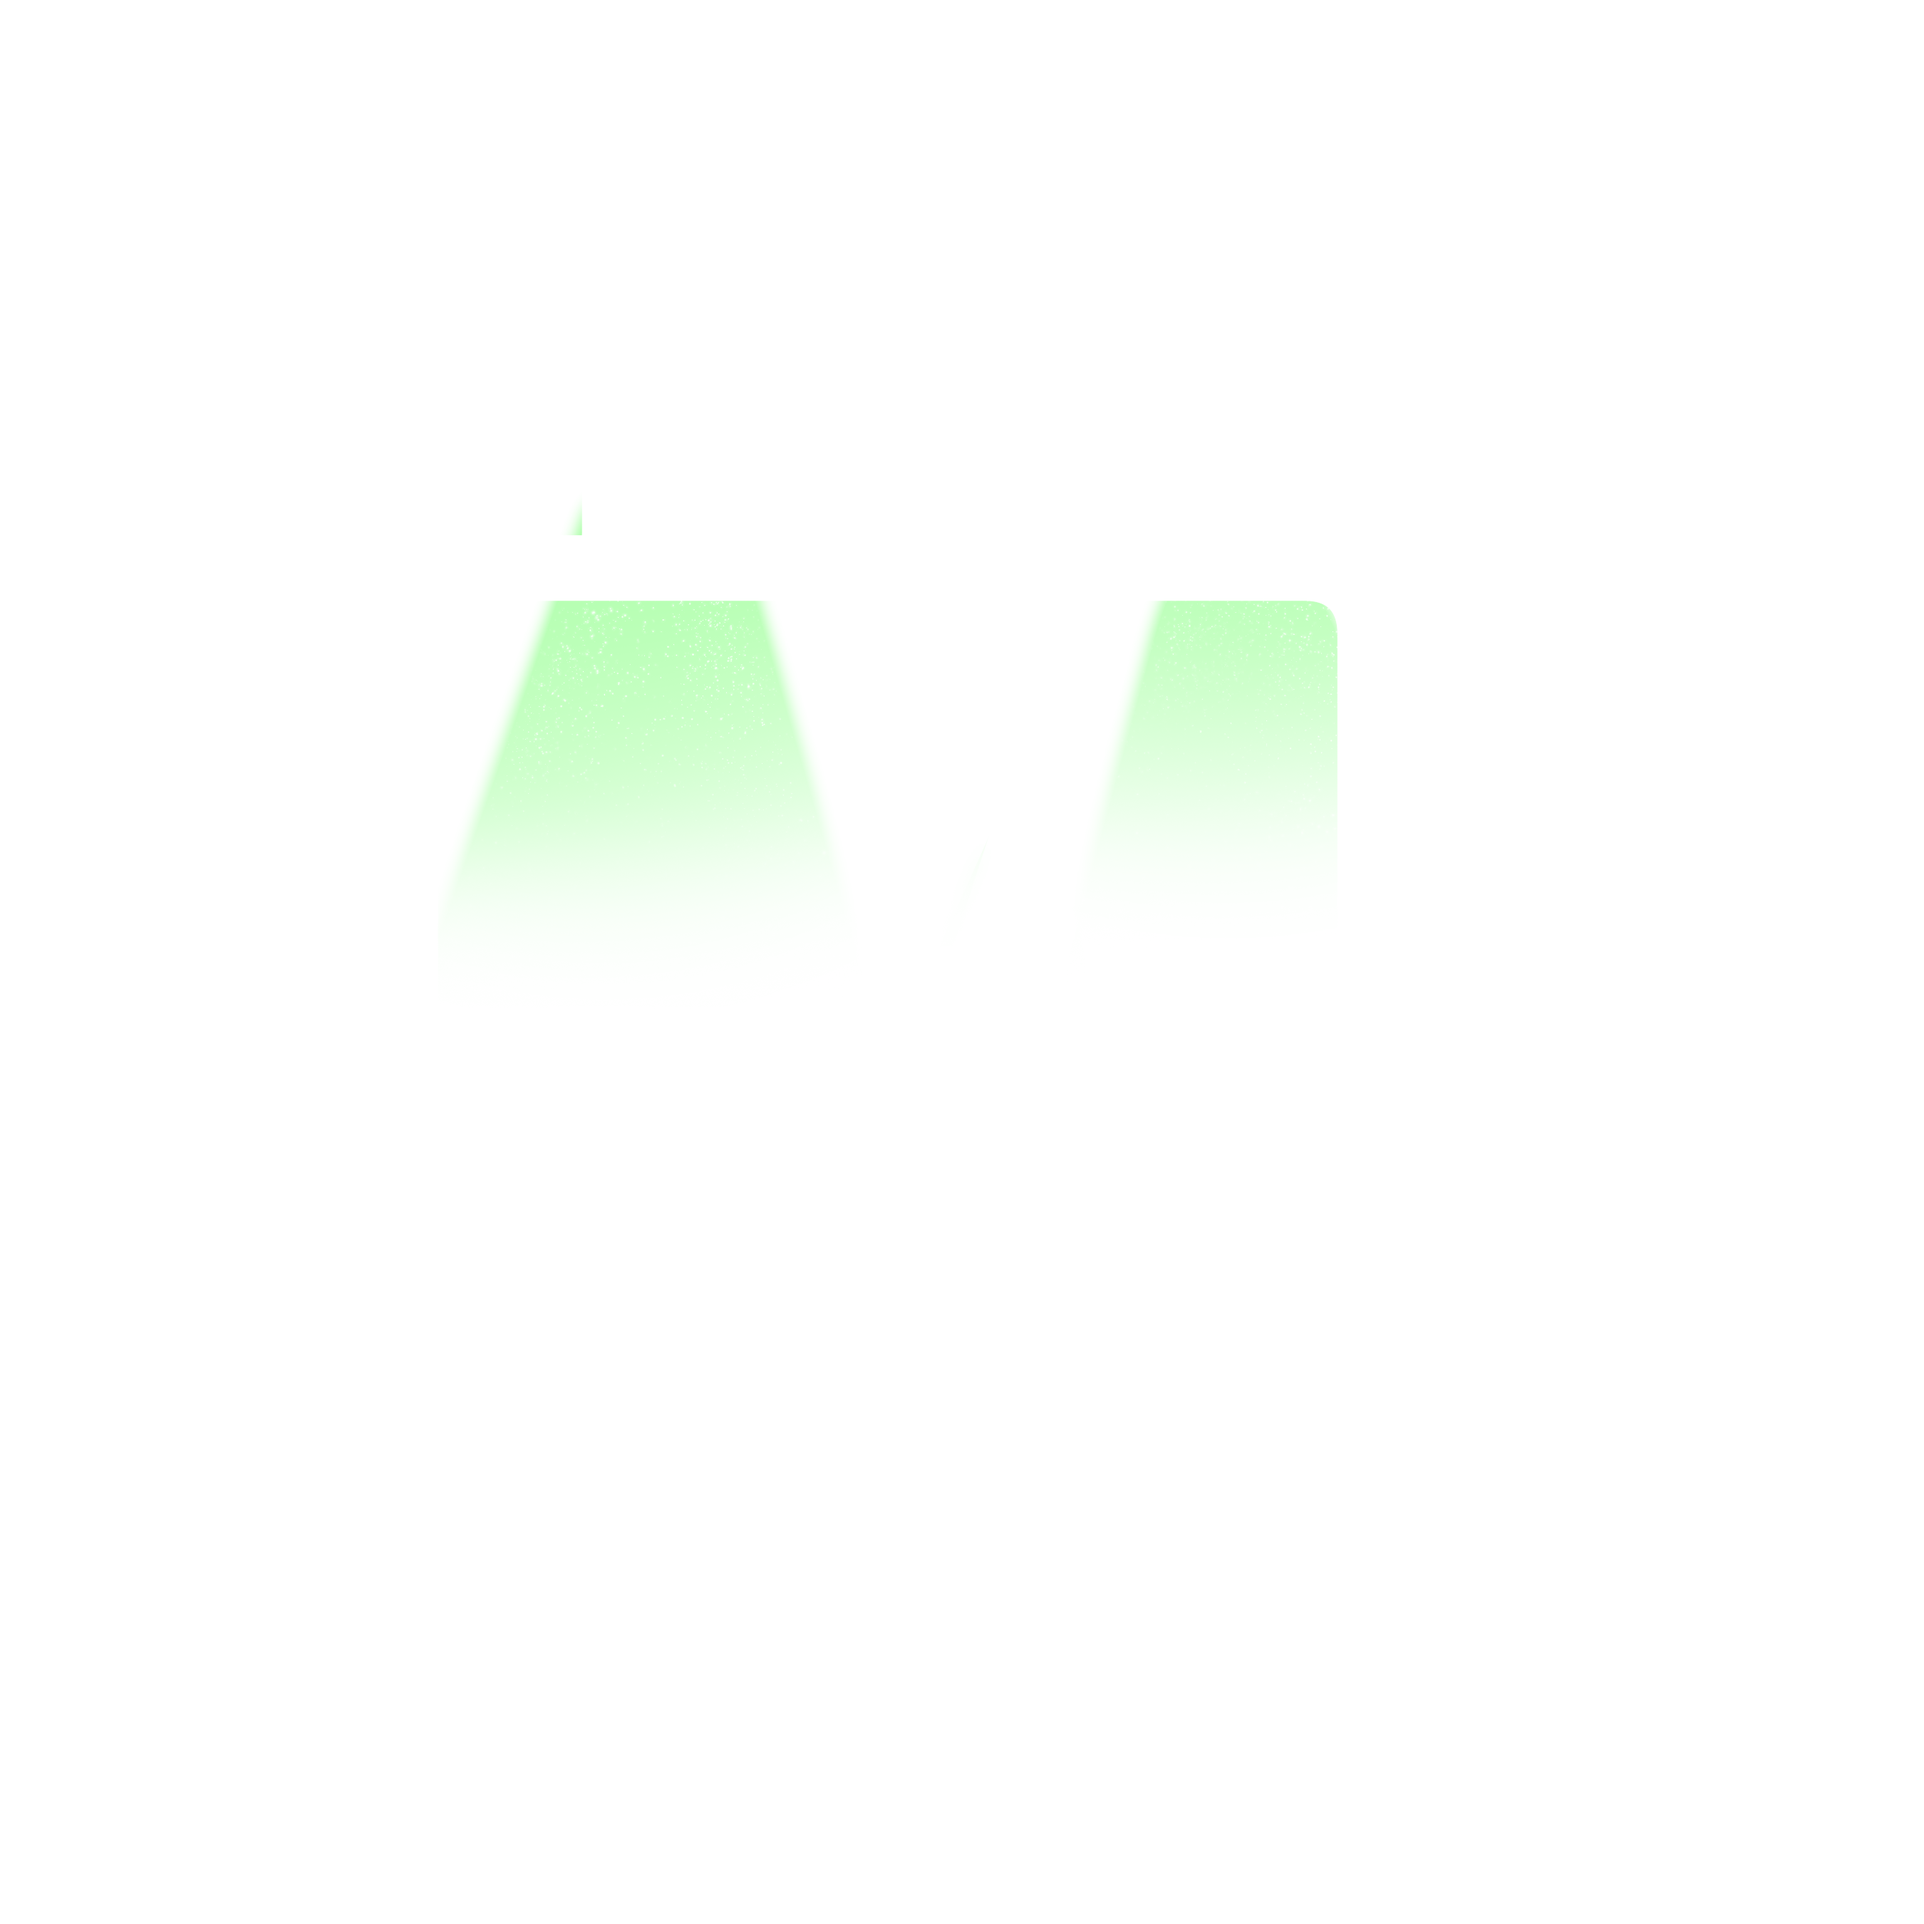
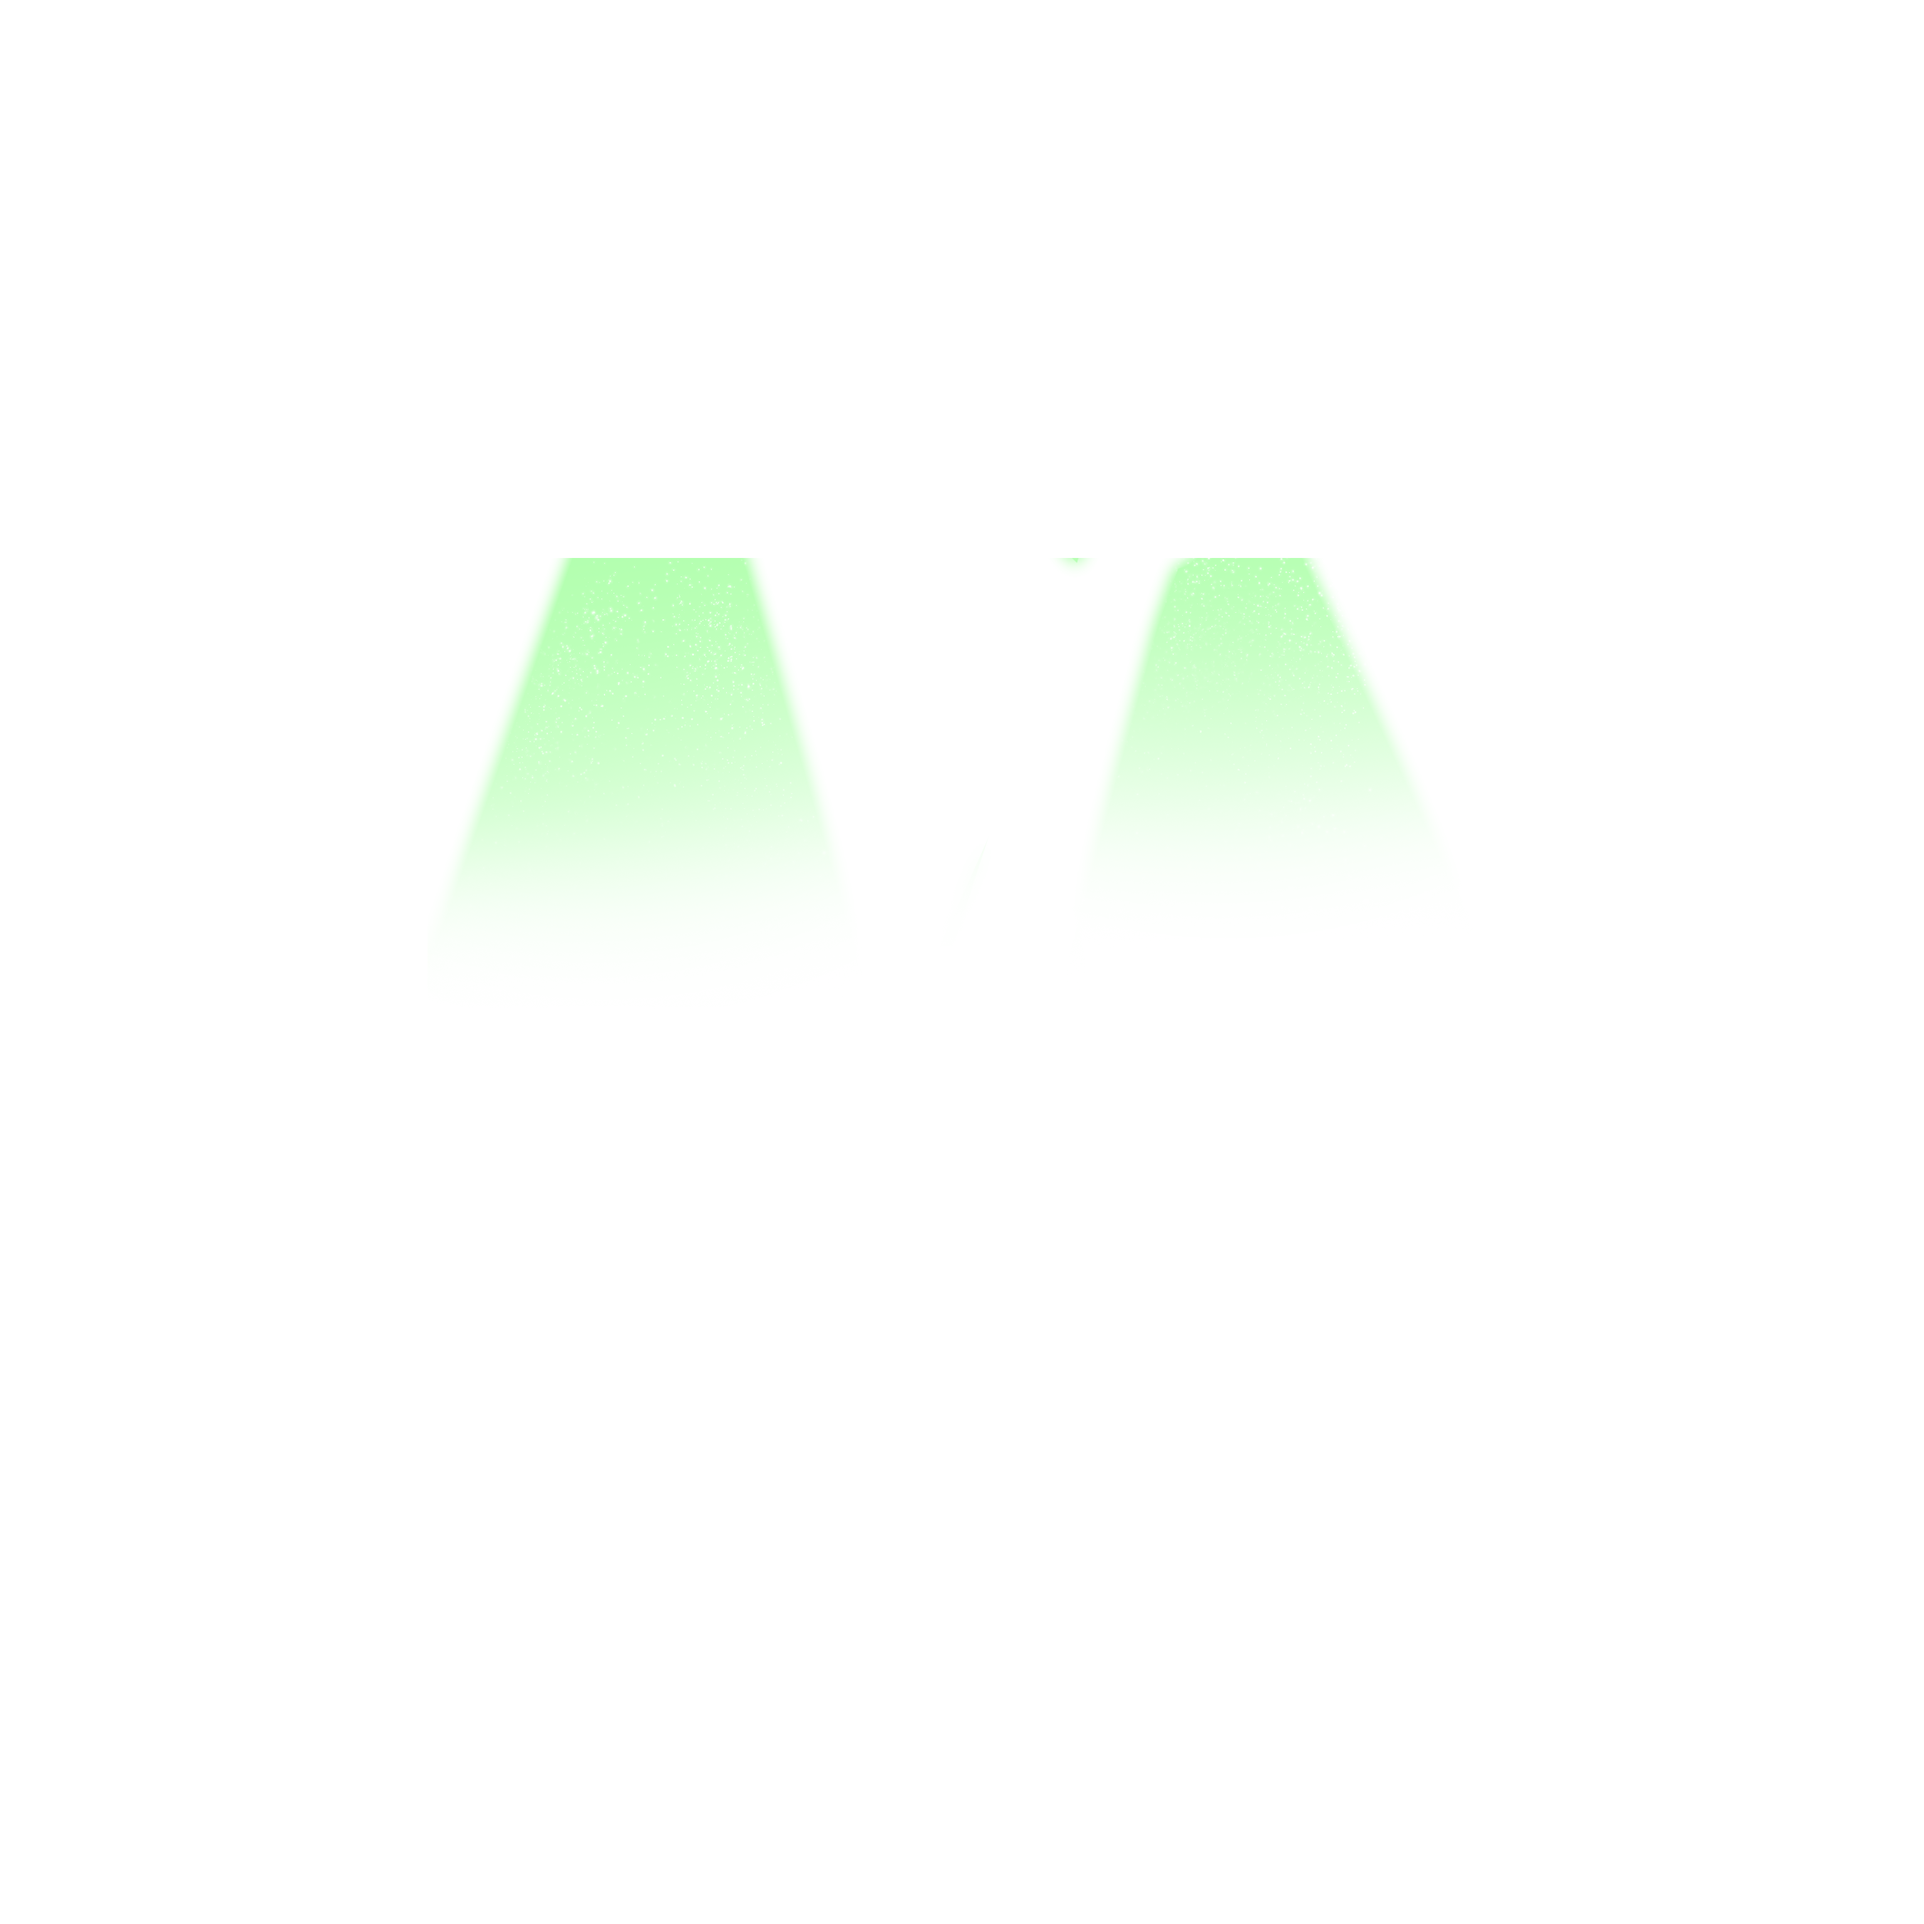
이미지 교체중

Changed region(s): [[0.6844, 0.3111, 0.7467, 0.4044], [0.28, 0.28, 0.4044, 0.3111], [0.5911, 0.28, 0.6844, 0.3111]]

diff --git a/kidult/src/App.css b/kidult/src/App.css
@@ -465,9 +465,7 @@
 .default .default-inner img.default-boxeffect {
   z-index: 1;
 }
-.default .default-inner img.default-slot {
-  z-index: 3;
-}
+
 .default .default-inner img.default-pattern {
   z-index: 2;
 }
@@ -523,4 +521,7 @@
 }
 .default .default-inner img.default-seal {
   z-index: 21;
+}
+.default .default-inner img.default-slot {
+  z-index: 22;
 }
